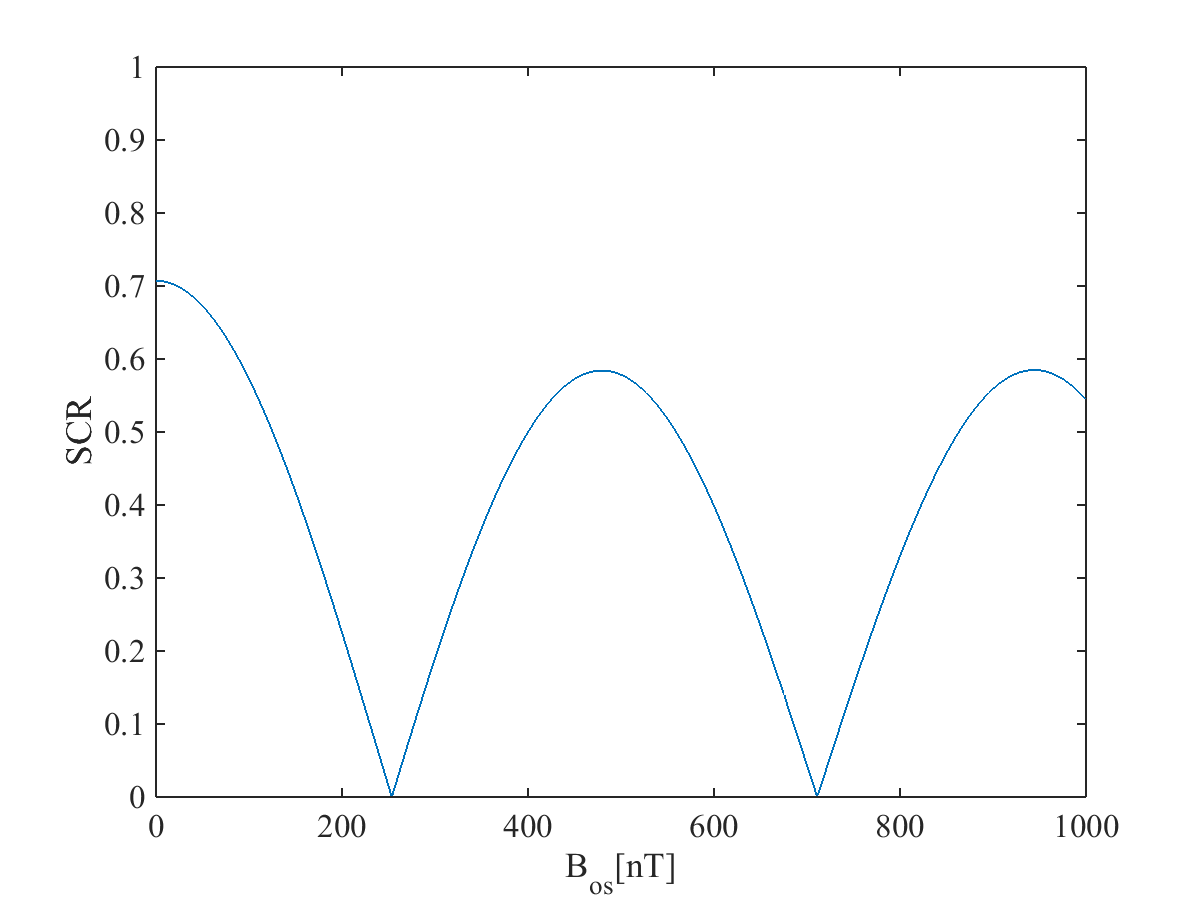
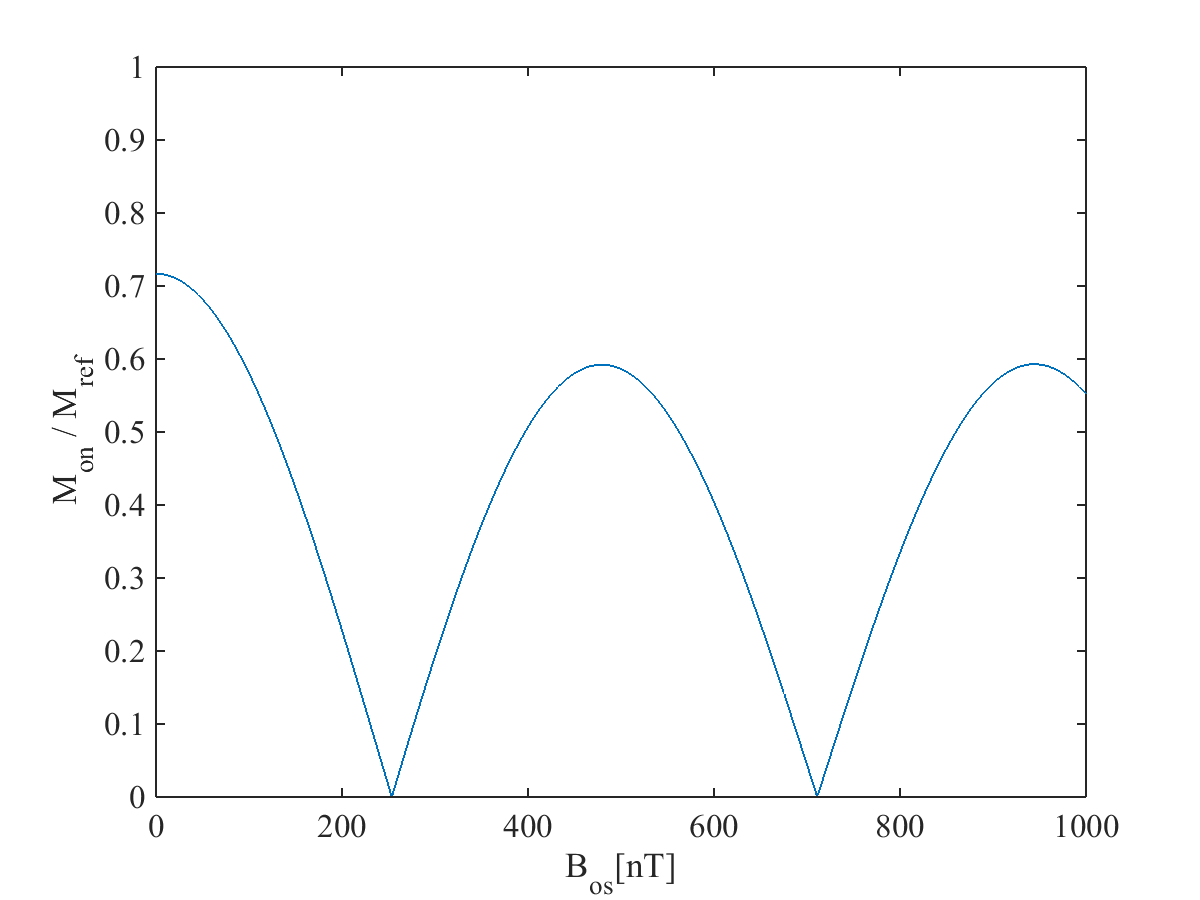
revise

diff --git a/bloch_sotsuron/bloch_matrix_spinlock_Bos.m b/bloch_sotsuron/bloch_matrix_spinlock_Bos.m
@@ -36,17 +36,18 @@ scr = zeros( size(Bos) );
 %function
 %-------------------------------------------------------------------------------
 [M] = bloch_first( T1, T2, b_x0, b_y0, trf, M_inf, M_i );
+[M_sl2off] = bloch_first( T1, T2, -b_x0, b_y0, trf, M_inf, M );
 
 for i = 1:size(Bos,2)
   [M_sl] = bloch_second( T1rho, T2rho, Bsl, Bos(i), omega_os, tsl, M );
   [M_sl2] = bloch_first( T1, T2, -b_x0, b_y0, trf, M_inf, M_sl );
-  scr(i) = M_sl2(3);
+  scr(i) = M_sl2(3)/M_sl2off(3);
 end
 
 figure;
 plot(Bos*1e9,abs(scr));
 xlabel('B_{os}[nT]');
-ylabel('SCR');
+ylabel('M_{on} / M_{ref}');
 xlim([0,1000]);
 ylim([0,1]);
 ax = gca;

diff --git a/bloch_sotsuron/bloch_matrix_spinlock_omegaos.m b/bloch_sotsuron/bloch_matrix_spinlock_omegaos.m
@@ -36,17 +36,18 @@ scr = zeros( size(fos) );
 %function
 %-------------------------------------------------------------------------------
 [M] = bloch_first( T1, T2, b_x0, b_y0, trf, M_inf, M_i );
+[M_sl2off] = bloch_first( T1, T2, -b_x0, b_y0, trf, M_inf, M );
 
 for i = 1:size(fos,2)
   [M_sl] = bloch_second( T1rho, T2rho, Bsl, Bos, omega_os(i), tsl, M );
   [M_sl2] = bloch_first( T1, T2, -b_x0, b_y0, trf, M_inf, M_sl );
-  scr(i) = M_sl2(3);
+  scr(i) = M_sl2(3)/M_sl2off(3);
 end
 
 figure;
 plot(fos,scr);
 xlabel('fos[Hz]');
-ylabel('SCR');
+ylabel('M_{on} / M_{ref}');
 xlim([0,200]);
 ylim([0,1]);
 ax = gca;

diff --git a/bloch_sotsuron/Msl_tsl_opt_fig.m b/bloch_sotsuron/Msl_tsl_opt_fig.m
@@ -26,7 +26,7 @@ fsl = 100; %spin lock frequency   %Hz
 fos = 100; %brain frequency   %Hz
 omega_os = 2 * pi * fos;
 Bsl = (fsl * 2 * pi)/gamma;
-Bos = 8e-9;
+Bos = 80e-9;
 tsl = linspace(0,1000e-3,1e3);
 
 %-------------------------------------------------------------------------------
@@ -57,7 +57,6 @@ plot(tsl*1e3,f,tsl*1e3,df);
 xlabel('T_{sl}[ms]');
 ylabel('difference of magnetization');
 xlim([0,1000]);
-ylim([-0.1,0.1]);
 ax = gca;
 ax.FontName = 'Times New Roman';
 ax.FontSize = 16;

diff --git a/bloch_sotsuron/Msl_tsl_opt.m b/bloch_sotsuron/Msl_tsl_opt.m
@@ -26,7 +26,7 @@ fsl = 100; %spin lock frequency   %Hz
 fos = 100; %brain frequency   %Hz
 omega_os = 2 * pi * fos;
 Bsl = (fsl * 2 * pi)/gamma;
-Bos = 8e-9;
+Bos = 80e-9;
 
 %-------------------------------------------------------------------------------
 %parameter of Newton's methods
@@ -65,6 +65,6 @@ for i = 1:size(t,2)
   if n==N_max
     disp('Don''t convergent')
   else
-    disp(t_old*1e3)
+    disp(t_old)
   end
 end

diff --git a/bloch_sotsuron/bloch_matrix_spinlock_tsl.m b/bloch_sotsuron/bloch_matrix_spinlock_tsl.m
@@ -26,7 +26,7 @@ fsl = 100; %spin lock frequency   %Hz
 fos = 100; %brain frequency   %Hz
 omega_os = 2 * pi * fos;
 Bsl = (fsl * 2 * pi)/gamma;
-Bos = 60e-9;
+Bos = 80e-9;
 %tsl = 50e-3;
 
 tsl = linspace(0,500e-3,200); %variable %1/fsl=10msの周期にするべき
